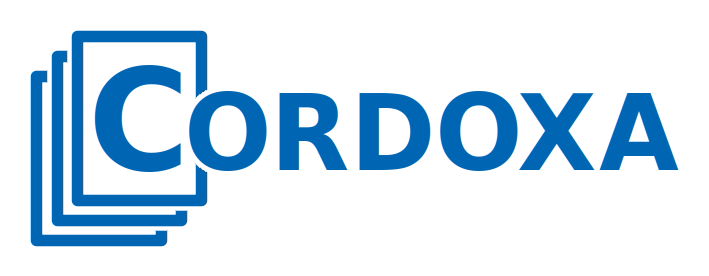
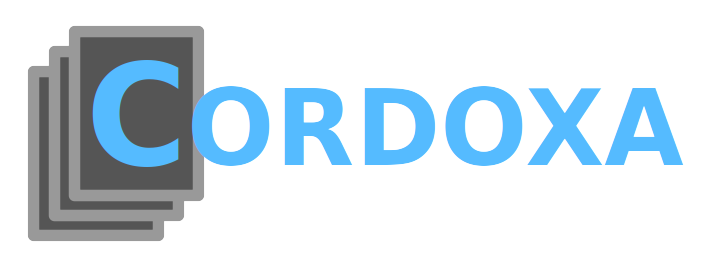
Darker color scheme.

diff --git a/docs/index.html b/docs/index.html
@@ -9,7 +9,7 @@
     <style>
 
         body {
-            background-color: #eef;
+            background-color: #555;
         }
 
         ul {
@@ -45,11 +45,11 @@
         }
 
         .color1 {
-            color: #393;
+            color: #5f8;
         }
 
         .color2 {
-            color: #06b;
+            color: #5bf;
         }
 
     </style>
